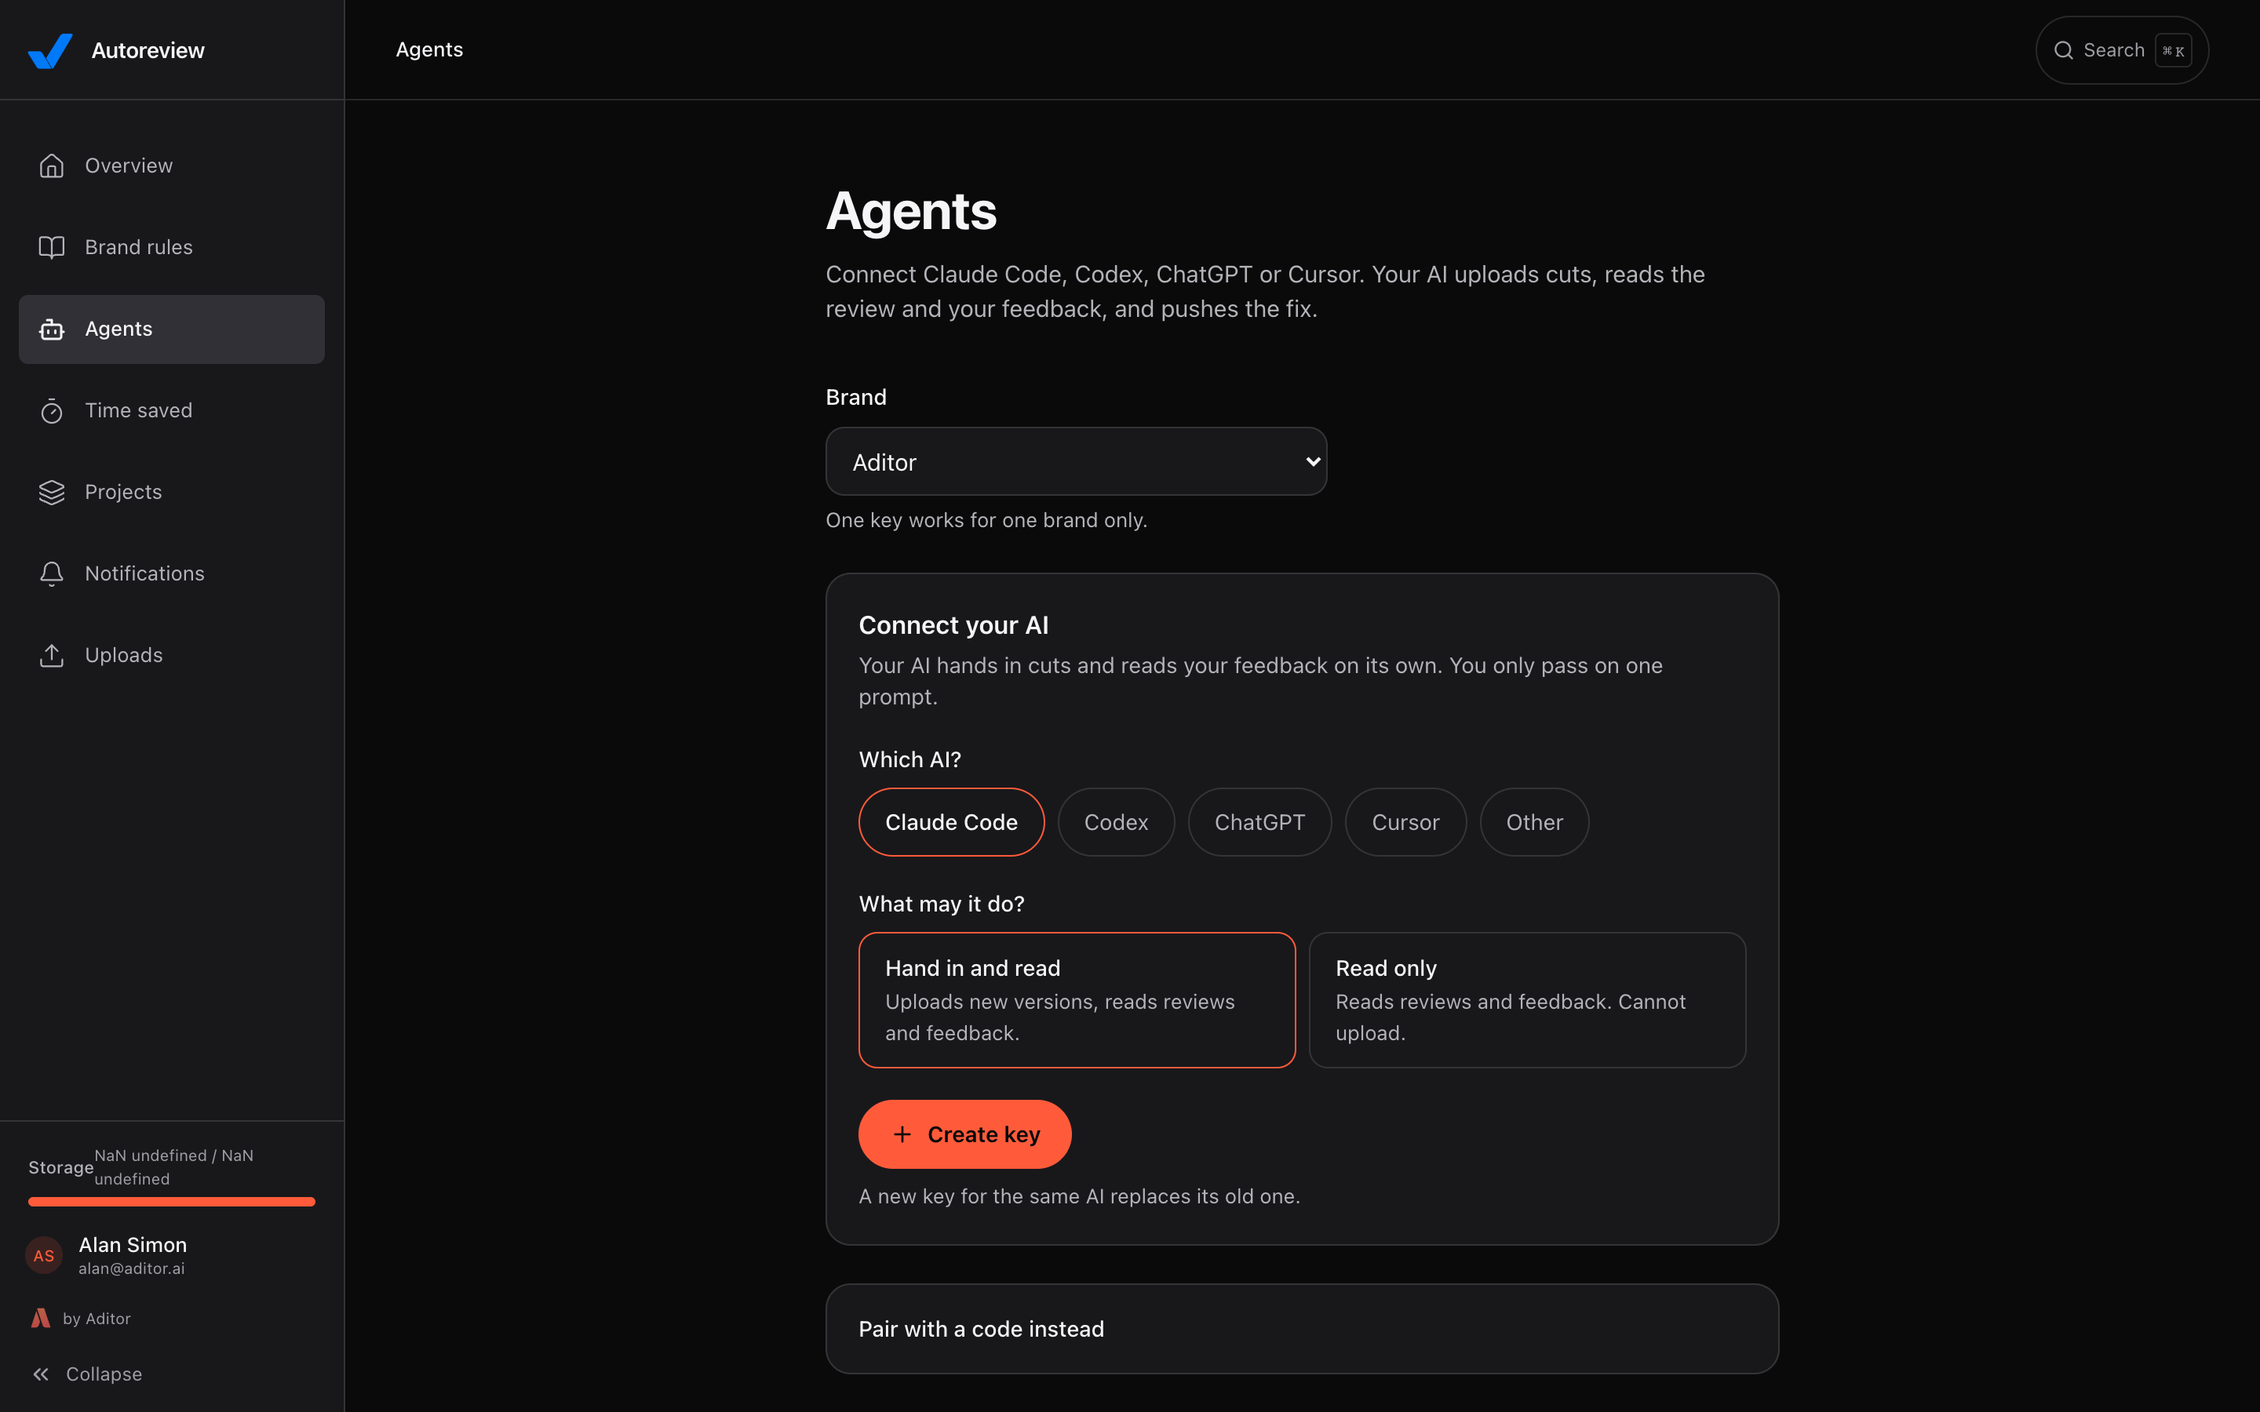
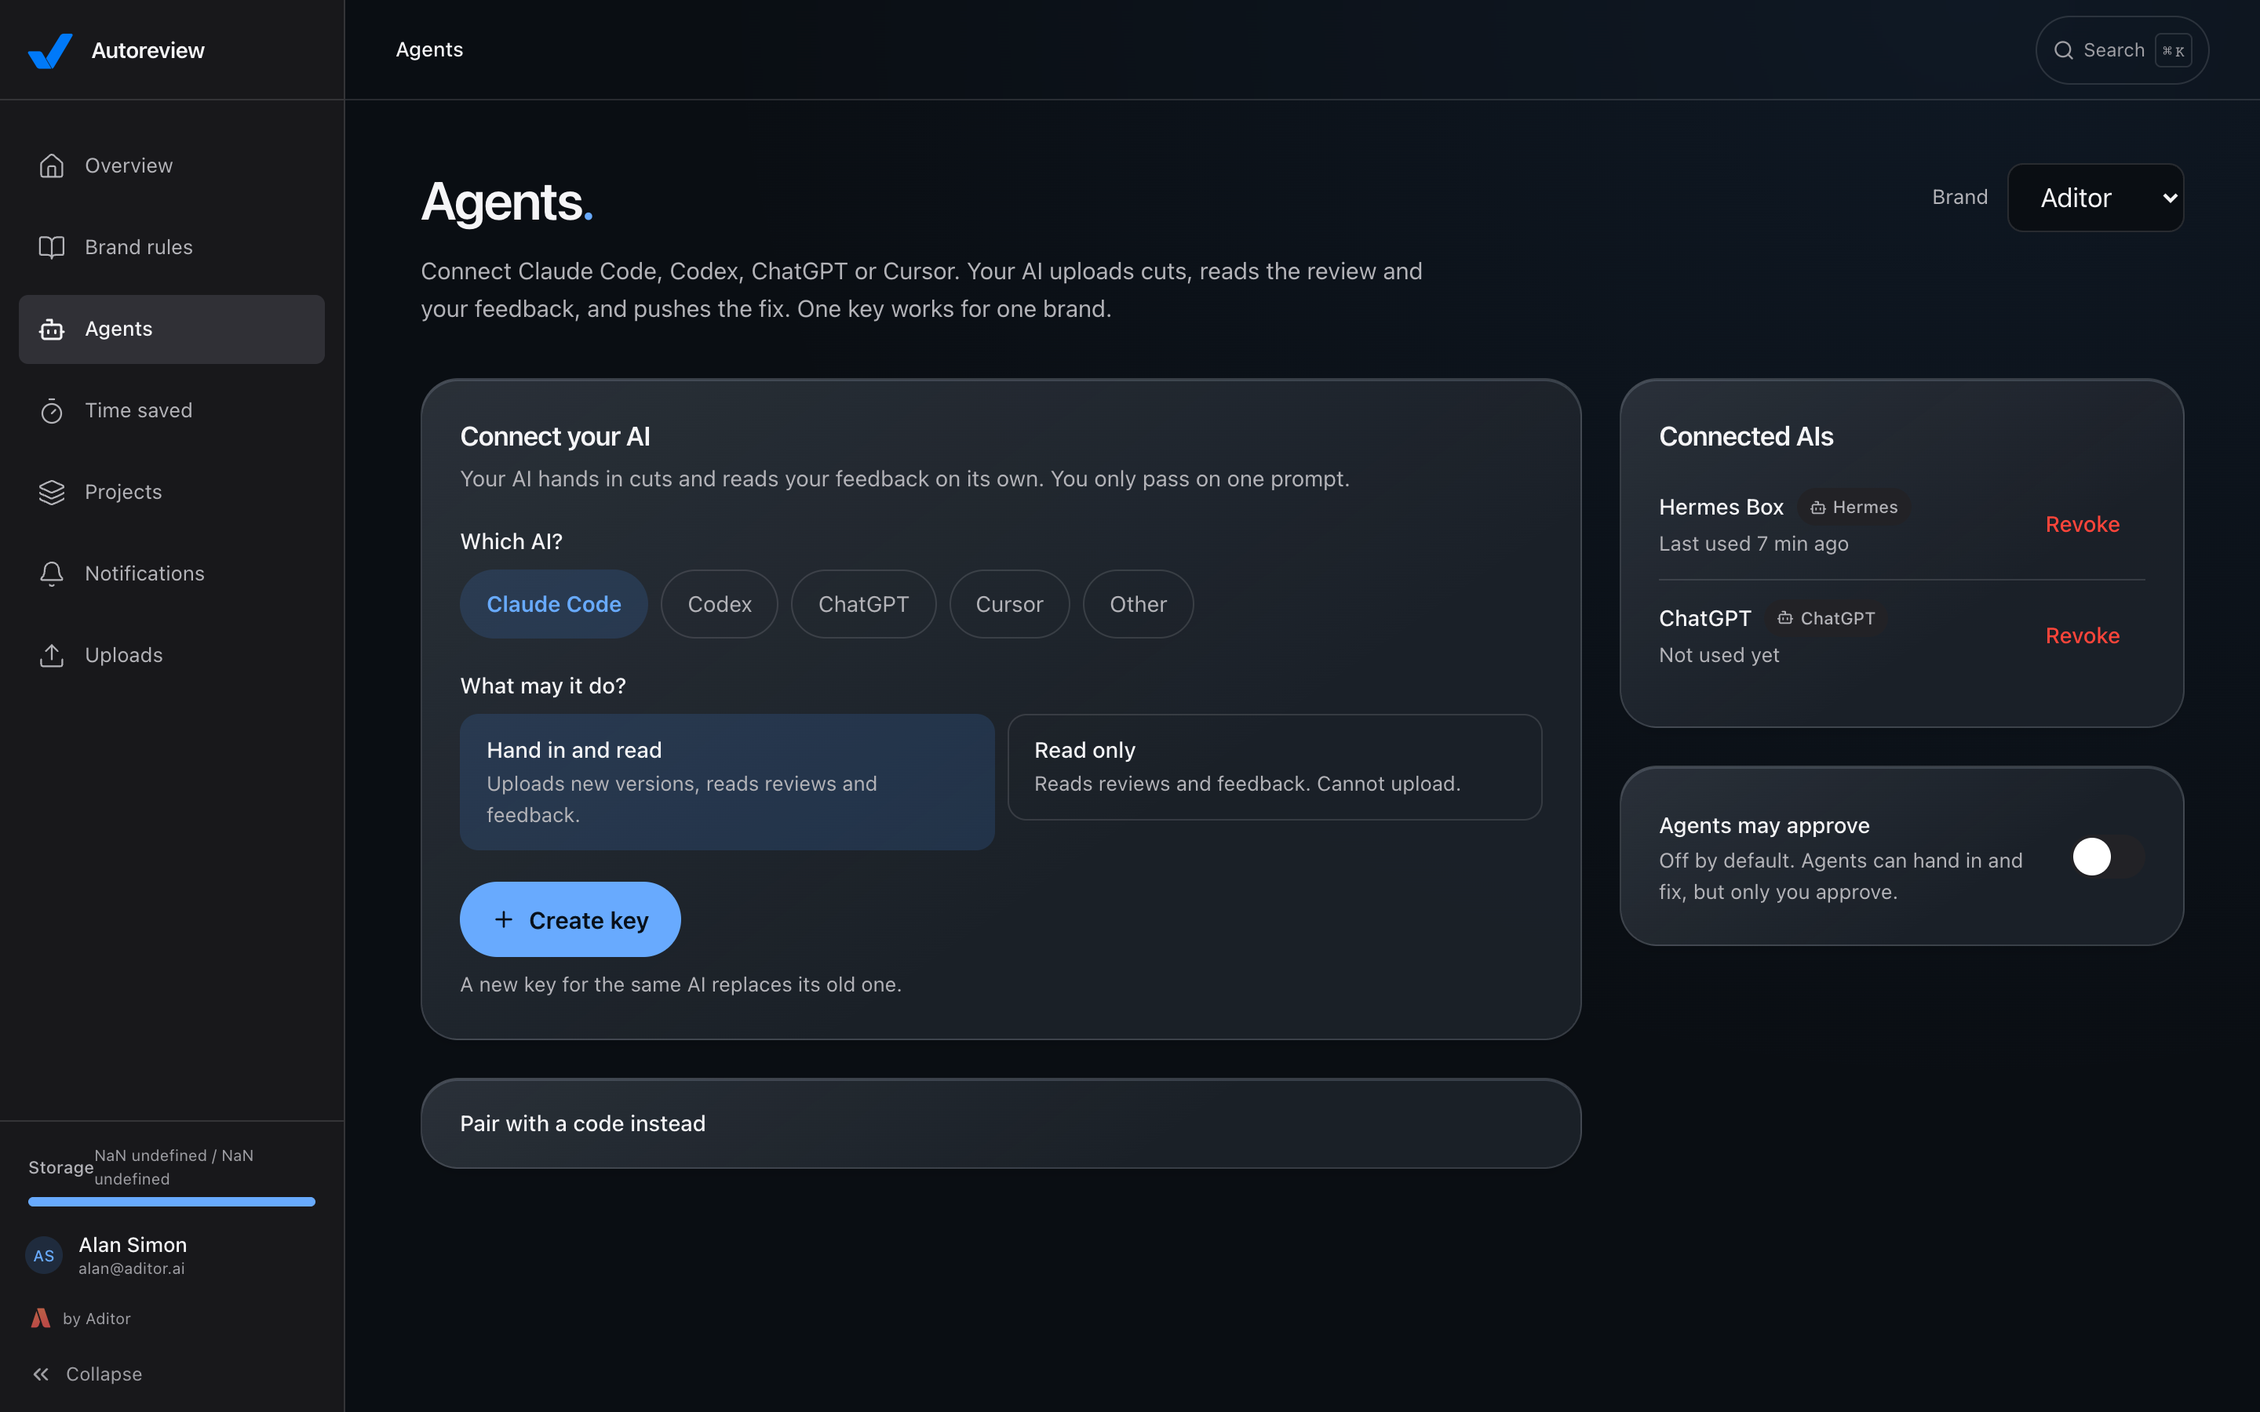
fix(agents): Agents page in the platform design (blue glass, Title., playbook cards)
Alan 07.11.: 'das sieht aber nicht wie der rest der plattform aus'. Same frame
as Overview and Brand rules: owner-workspace accent, 1320px column, brand
picker top right, playbook-surface cards, selection as tinted fill (no
accent outline), connected AIs as a right-hand column on wide screens.

diff --git a/apps/web/components/agents/connect-agent.tsx b/apps/web/components/agents/connect-agent.tsx
@@ -37,7 +37,7 @@ function CopyButton({ text, label, primary }: { text: string; label: string; pri
     <>
       <button type="button" onClick={copy}
         className={primary
-          ? 'press inline-flex h-11 w-full items-center justify-center gap-2 rounded-full bg-accent px-5 text-sm font-semibold text-text-inverse hover:bg-accent-hover sm:w-auto'
+          ? 'press inline-flex h-12 w-full items-center justify-center gap-2 rounded-full bg-accent px-5 text-[0.9375rem] font-semibold text-text-inverse hover:bg-accent-hover sm:w-auto'
           : 'press inline-flex min-h-11 items-center gap-2 rounded-full px-4 text-sm font-medium text-text-primary hover:bg-bg-hover'}>
         {copied ? <Check size={16} /> : <Copy size={16} />}{copied ? 'Copied' : label}
       </button>
@@ -62,11 +62,11 @@ function KeyCard({ projectId, onCreated }: { projectId: string; onCreated: () =>
   }
   const extra = made ? setupLine(made.program, made.agent_key) : null
   const radio = 'peer sr-only'
-  const pill = 'press flex min-h-11 cursor-pointer items-center rounded-full border border-border px-4 text-sm text-text-secondary hover:bg-bg-hover peer-checked:border-accent peer-checked:bg-accent/10 peer-checked:font-medium peer-checked:text-text-primary peer-focus-visible:ring-2 peer-focus-visible:ring-text-secondary'
+  const pill = 'press flex min-h-11 cursor-pointer items-center rounded-full border border-border px-4 text-sm text-text-secondary hover:bg-bg-hover peer-checked:border-transparent peer-checked:bg-accent-muted peer-checked:font-semibold peer-checked:text-accent peer-focus-visible:ring-2 peer-focus-visible:ring-text-secondary'
 
   return (
-    <section aria-labelledby="connect-ai-h" className="rounded-2xl border border-border bg-bg-secondary p-5">
-      <h2 id="connect-ai-h" className="text-base font-semibold text-text-primary">Connect your AI</h2>
+    <section aria-labelledby="connect-ai-h" className="playbook-surface p-5 sm:p-6">
+      <h2 id="connect-ai-h" className="text-[1.0625rem] font-semibold tracking-tight text-text-primary">Connect your AI</h2>
       <p className="mt-1 text-sm text-text-secondary">Your AI hands in cuts and reads your feedback on its own. You only pass on one prompt.</p>
 
       {!made ? (
@@ -88,7 +88,7 @@ function KeyCard({ projectId, onCreated }: { projectId: string; onCreated: () =>
               {SCOPES.map(s => (
                 <label key={s.value} className="block">
                   <input type="radio" name="ai-scope" value={s.value} checked={scope === s.value} onChange={() => setScope(s.value)} className={radio} />
-                  <span className="press block min-h-11 cursor-pointer rounded-xl border border-border px-4 py-3 hover:bg-bg-hover peer-checked:border-accent peer-checked:bg-accent/10 peer-focus-visible:ring-2 peer-focus-visible:ring-text-secondary">
+                  <span className="press block min-h-11 cursor-pointer rounded-xl border border-border px-4 py-3 hover:bg-bg-hover peer-checked:border-transparent peer-checked:bg-accent-muted peer-focus-visible:ring-2 peer-focus-visible:ring-text-secondary">
                     <span className="block text-sm font-medium text-text-primary">{s.label}</span>
                     <span className="mt-0.5 block text-[0.8125rem] text-text-secondary">{s.hint}</span>
                   </span>
@@ -98,7 +98,7 @@ function KeyCard({ projectId, onCreated }: { projectId: string; onCreated: () =>
           </fieldset>
           <div>
             <button type="button" onClick={create} disabled={busy}
-              className="press inline-flex h-11 w-full items-center justify-center gap-2 rounded-full bg-accent px-5 text-sm font-semibold text-text-inverse hover:bg-accent-hover disabled:opacity-60 sm:w-auto">
+              className="press inline-flex h-12 w-full items-center justify-center gap-2 rounded-full bg-accent px-5 text-[0.9375rem] font-semibold text-text-inverse hover:bg-accent-hover disabled:opacity-60 sm:w-auto">
               {busy ? <Loader2 size={16} className="animate-spin" /> : <Plus size={16} />}Create key
             </button>
             <p className="mt-2 text-[0.8125rem] text-text-secondary">A new key for the same AI replaces its old one.</p>
@@ -110,7 +110,7 @@ function KeyCard({ projectId, onCreated }: { projectId: string; onCreated: () =>
             <span className="font-medium">Key for {PROGRAM_LABEL[made.program]} is ready.</span>{' '}
             <span className="text-text-secondary">It is shown only now. Paste this into {PROGRAM_LABEL[made.program] === 'Other' ? 'your AI' : PROGRAM_LABEL[made.program]}:</span>
           </p>
-          <div className="rounded-xl border border-border bg-bg-primary p-3">
+          <div className="rounded-2xl border border-border bg-bg-secondary p-3">
             <pre data-testid="agent-prompt" className="whitespace-pre-wrap font-mono [overflow-wrap:anywhere] text-[0.9375rem] leading-relaxed text-text-primary">{agentPrompt(made.agent_key)}</pre>
           </div>
           <div className="flex flex-wrap items-center gap-2">
@@ -120,7 +120,7 @@ function KeyCard({ projectId, onCreated }: { projectId: string; onCreated: () =>
           {extra && (
             <div className="pt-2">
               <p className="text-[0.8125rem] font-medium text-text-secondary">{extra.label}</p>
-              <pre className="mt-1 whitespace-pre-wrap rounded-xl [overflow-wrap:anywhere] border border-border bg-bg-primary p-3 font-mono text-[0.8125rem] leading-relaxed text-text-primary">{extra.text}</pre>
+              <pre className="mt-1 whitespace-pre-wrap rounded-2xl [overflow-wrap:anywhere] border border-border bg-bg-secondary p-3 font-mono text-[0.8125rem] leading-relaxed text-text-primary">{extra.text}</pre>
               <CopyButton text={extra.text} label="Copy" />
             </div>
           )}
@@ -160,7 +160,7 @@ function PairingCard({ projectId }: { projectId: string }) {
   }
 
   return (
-    <details className="group rounded-2xl border border-border bg-bg-secondary px-5">
+    <details className="group playbook-surface px-5 sm:px-6">
       <summary className="flex min-h-14 cursor-pointer items-center text-sm font-medium text-text-primary">Pair with a code instead</summary>
       <div className="pb-5">
       <p className="text-sm text-text-secondary">The key never shows up in a chat. The code works once, for 15 minutes.</p>
@@ -181,17 +181,17 @@ function PairingCard({ projectId }: { projectId: string }) {
             <p className="text-sm tabular-nums text-text-secondary" role="timer">Expires in {left!.label}</p>
           </div>
           <p className="text-sm text-text-secondary">Tell Claude Code this line. It needs the <a href={KIT_URL} target="_blank" rel="noreferrer" className="font-medium text-text-primary underline underline-offset-2">AI Builder Starter Kit</a>.</p>
-          <div className="rounded-xl border border-border bg-bg-primary p-3">
+          <div className="rounded-2xl border border-border bg-bg-secondary p-3">
             <pre className="whitespace-pre-wrap break-all font-mono text-[0.9375rem] leading-relaxed text-text-primary">{line}</pre>
           </div>
           <button type="button" onClick={copy}
-            className="press inline-flex h-11 w-full items-center justify-center gap-2 rounded-full bg-accent px-5 text-sm font-semibold text-text-inverse hover:bg-accent-hover sm:w-auto">
+            className="press inline-flex h-12 w-full items-center justify-center gap-2 rounded-full bg-accent px-5 text-[0.9375rem] font-semibold text-text-inverse hover:bg-accent-hover sm:w-auto">
             {copied ? <Check size={16} /> : <Copy size={16} />}{copied ? 'Copied' : 'Copy'}
           </button>
           <details className="text-[0.8125rem] text-text-secondary">
             <summary className="min-h-11 cursor-pointer content-center font-medium hover:text-text-primary">Codex, Hermes or Claude without the kit</summary>
             <p className="mb-2">Run the first line in the agent&apos;s terminal, then tell the agent the second line.</p>
-            <pre className="whitespace-pre-wrap break-all rounded-xl border border-border bg-bg-primary p-3 font-mono leading-relaxed text-text-primary">{mcpBlock}</pre>
+            <pre className="whitespace-pre-wrap break-all rounded-2xl border border-border bg-bg-secondary p-3 font-mono leading-relaxed text-text-primary">{mcpBlock}</pre>
           </details>
         </div>
       )}
@@ -247,12 +247,15 @@ export function ConnectAgent({ projectId }: { projectId: string }) {
   }
 
   return (
-    <div className="space-y-6">
-      <KeyCard projectId={projectId} onCreated={() => mutate()} />
-      <PairingCard projectId={projectId} />
+    <div className="grid min-w-0 items-start gap-6 xl:grid-cols-[minmax(0,1fr)_360px]">
+      <div className="min-w-0 space-y-6">
+        <KeyCard projectId={projectId} onCreated={() => mutate()} />
+        <PairingCard projectId={projectId} />
+      </div>
+      <div className="min-w-0 space-y-6">
 
-      <section aria-labelledby="agents-h" className="rounded-2xl border border-border bg-bg-secondary p-5">
-        <h2 id="agents-h" className="text-base font-semibold text-text-primary">Connected AIs</h2>
+      <section aria-labelledby="agents-h" className="playbook-surface p-5 sm:p-6">
+        <h2 id="agents-h" className="text-[1.0625rem] font-semibold tracking-tight text-text-primary">Connected AIs</h2>
         {error ? <p role="alert" className="mt-3 text-sm text-text-secondary">Could not load agents. <button className="min-h-11 font-medium text-accent" onClick={() => mutate()}>Retry</button></p>
           : !agents ? <div className="skeleton-shimmer mt-3 h-16 animate-shimmer rounded-xl" />
           : active.length === 0 ? <p className="mt-3 text-sm text-text-secondary">No AI connected yet. Create a key above.</p>
@@ -260,7 +263,7 @@ export function ConnectAgent({ projectId }: { projectId: string }) {
         {revokeError && <p role="alert" className="mt-2 text-sm text-status-error">{revokeError}</p>}
       </section>
 
-      <section className="rounded-2xl border border-border bg-bg-secondary p-5">
+      <section className="playbook-surface p-5 sm:p-6">
         <div className="flex items-center justify-between gap-4">
           <div>
             <label id="may-approve-l" htmlFor="may-approve" className="text-sm font-medium text-text-primary">Agents may approve</label>
@@ -273,6 +276,7 @@ export function ConnectAgent({ projectId }: { projectId: string }) {
         </div>
         {toggleError && <p role="alert" className="mt-2 text-sm text-status-error">{toggleError}</p>}
       </section>
+      </div>
     </div>
   )
 }

diff --git a/apps/web/app/(dashboard)/agents/page.tsx b/apps/web/app/(dashboard)/agents/page.tsx
@@ -24,31 +24,29 @@ function Agents() {
   const wanted = params.get('project')
   const projectId = brands.find(p => p.id === wanted)?.id ?? brands[0]?.id
 
+  // Same frame as Overview and Brand rules: wide column, "Title." heading, brand picker top right.
   return (
-    <div className="page-in mx-auto w-full max-w-2xl px-4 pb-24 pt-8 sm:px-8 sm:pt-12">
-      <h1 className="text-[34px] font-bold leading-tight tracking-[-0.02em] text-text-primary">Agents</h1>
-      <p className="mt-2 text-[15px] text-text-secondary">Connect Claude Code, Codex, ChatGPT or Cursor. Your AI uploads cuts, reads the review and your feedback, and pushes the fix.</p>
+    <div className="mx-auto w-full max-w-[1320px] px-4 pb-12 pt-6 sm:px-8 lg:px-12 lg:pt-10">
+      <div className="flex flex-wrap items-end justify-between gap-4">
+        <h1 className="text-[2.125rem] font-semibold leading-tight tracking-[-0.035em]">Agents<span className="text-accent">.</span></h1>
+        {brands.length > 1 && projectId && (
+          <label className="flex min-w-0 max-w-full items-center gap-3 text-[0.8125rem] text-text-secondary"><span>Brand</span>
+            <select value={projectId} onChange={e => router.replace(`/agents?project=${e.target.value}`)} className="field h-11 min-w-0 max-w-[240px]" aria-label="Brand">
+              {brands.map(p => <option key={p.id} value={p.id}>{p.name}</option>)}
+            </select>
+          </label>
+        )}
+      </div>
+      <p className="mt-3 max-w-2xl text-[0.9375rem] leading-relaxed text-text-secondary">Connect Claude Code, Codex, ChatGPT or Cursor. Your AI uploads cuts, reads the review and your feedback, and pushes the fix. One key works for one brand.</p>
 
       {error ? (
-        <p role="alert" className="mt-8 text-sm text-text-secondary">Could not load your brands. <button className="min-h-11 font-medium text-accent" onClick={() => mutate()}>Retry</button></p>
+        <div role="alert" className="playbook-surface mt-8 p-5">Could not load your brands. <button type="button" className="min-h-11 px-2 font-medium text-accent" onClick={() => mutate()}>Retry</button></div>
       ) : !projects ? (
-        <div className="skeleton-shimmer mt-8 h-64 animate-shimmer rounded-2xl" />
+        <div className="skeleton-shimmer mt-8 h-64 animate-shimmer rounded-3xl" />
       ) : !projectId ? (
-        <p className="mt-8 text-sm text-text-secondary">You need a brand you own before an AI can join it.</p>
+        <p className="playbook-surface mt-8 p-8 text-text-secondary">You need a brand you own before an AI can join it.</p>
       ) : (
-        <div className="mt-8 space-y-6">
-          {brands.length > 1 && (
-            <div>
-              <label htmlFor="agent-brand" className="text-sm font-medium text-text-primary">Brand</label>
-              <select id="agent-brand" value={projectId} onChange={e => router.replace(`/agents?project=${e.target.value}`)}
-                className="mt-2 block h-11 w-full rounded-xl border border-border bg-bg-secondary px-3 text-[15px] text-text-primary sm:w-80">
-                {brands.map(p => <option key={p.id} value={p.id}>{p.name}</option>)}
-              </select>
-              <p className="mt-1.5 text-[0.8125rem] text-text-secondary">One key works for one brand only.</p>
-            </div>
-          )}
-          <ConnectAgent key={projectId} projectId={projectId} />
-        </div>
+        <div className="mt-8"><ConnectAgent key={projectId} projectId={projectId} /></div>
       )}
     </div>
   )

diff --git a/apps/web/app/(dashboard)/layout.tsx b/apps/web/app/(dashboard)/layout.tsx
@@ -59,7 +59,7 @@ export default function DashboardLayout({
   if (setupRoute) return <main className="owner-workspace min-h-screen bg-bg-primary"><CampaignBoundary>{content}</CampaignBoundary></main>;
 
   return (
-    <div className={cn("flex h-screen overflow-hidden bg-bg-primary", ["/home", "/rules", "/handin"].includes(pathname) && "owner-workspace")}>
+    <div className={cn("flex h-screen overflow-hidden bg-bg-primary", ["/home", "/rules", "/agents", "/handin"].includes(pathname) && "owner-workspace")}>
       <Sidebar
         collapsed={sidebarCollapsed}
         onToggle={() => setSidebarCollapsed((c) => !c)}
